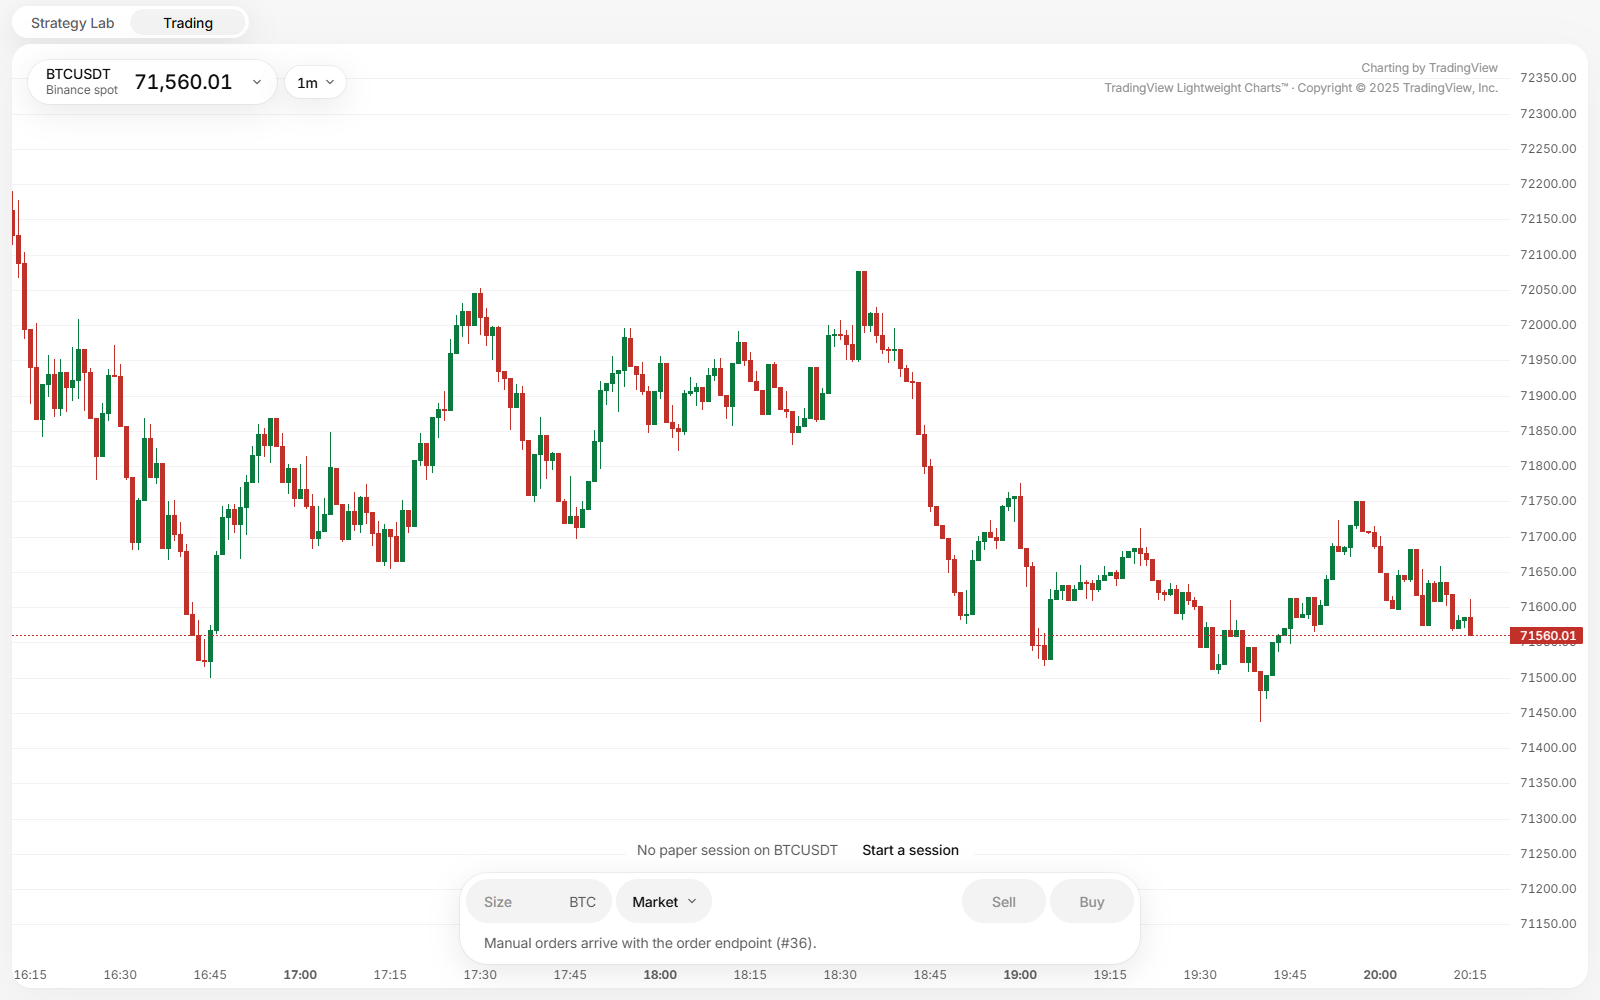
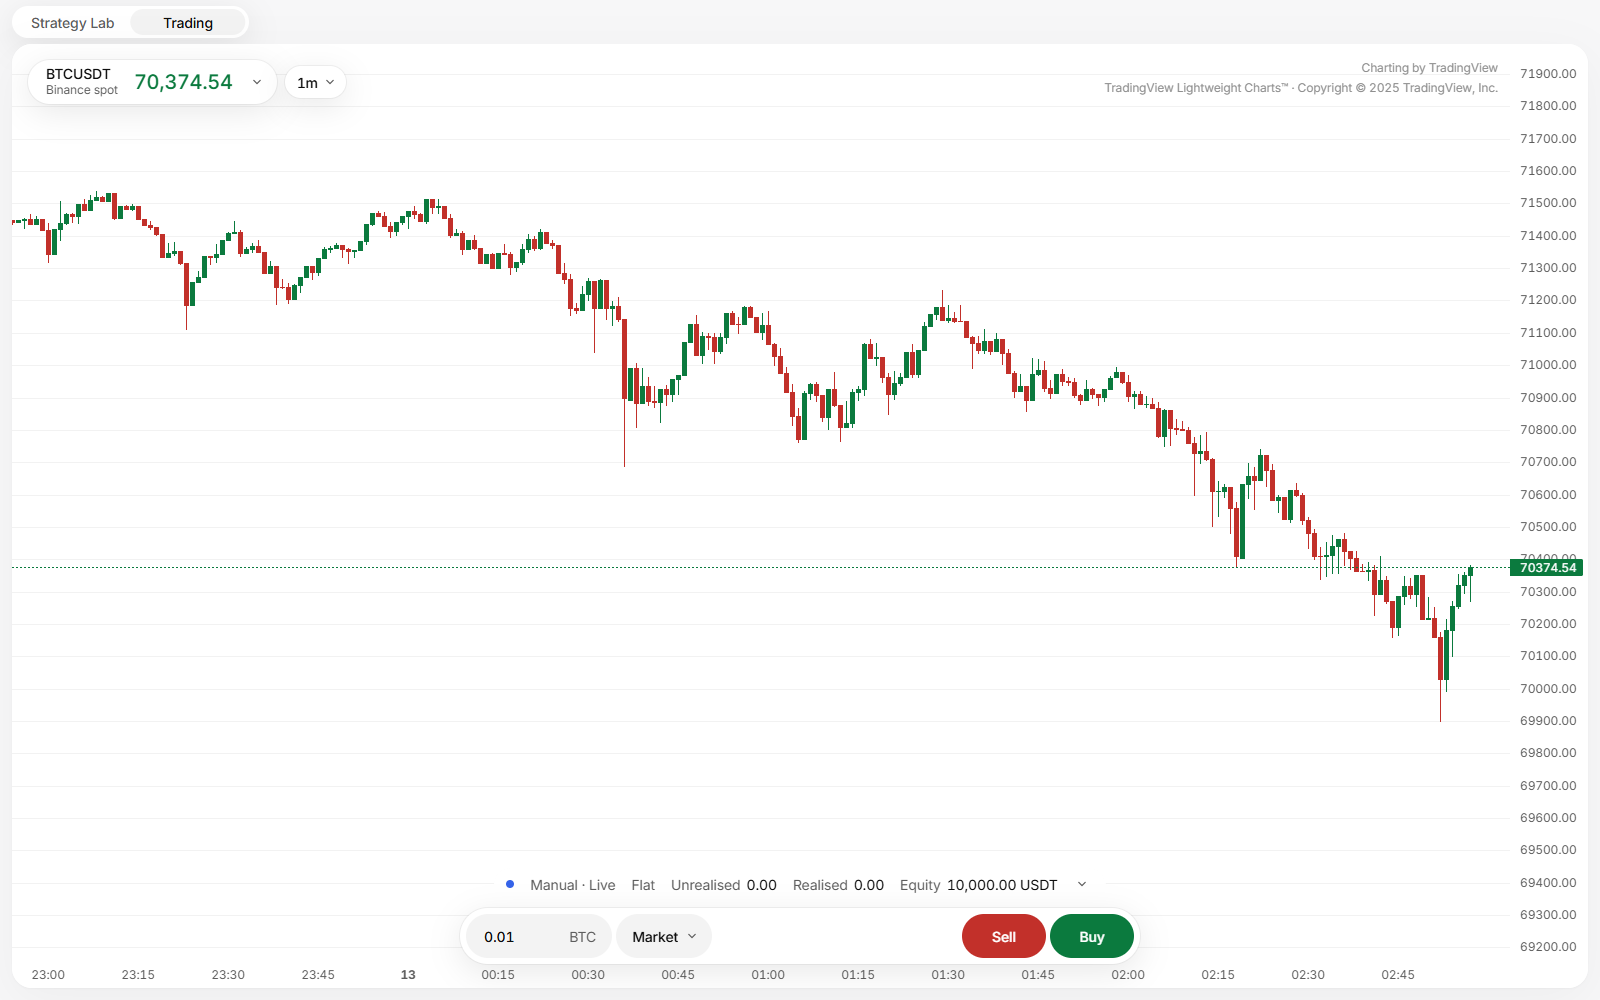
Retake the README's Trading screenshot with the order panel enabled
The old image showed the order ticket from before #126, disabled with
"Manual orders arrive with the order endpoint (#36)." The new one is the
real app on live Binance data: the one-minute BTCUSDT spot chart with a
few hours of history, a running Manual paper session, and the order panel
with a size typed and Sell and Buy enabled. Same 1600x1000 framing as
lab-result.png. The alt text now describes it.

diff --git a/README.md b/README.md
@@ -4,7 +4,7 @@ Trading Desk is the workspace I use for my own trading: a desktop app that backt
 
 ![Strategy Lab showing the result of an SMA cross backtest on BTCUSDT from January 2023 to October 2025: the return, CAGR, Sharpe and drawdown, the equity curve against buy and hold, and the metrics table](assets/lab-result.png)
 
-![Trading showing the live one-minute BTCUSDT chart on Binance spot, with the last few hours of history and the paper order panel](assets/trading.png)
+![Trading showing the live one-minute BTCUSDT chart on Binance spot with the last few hours of history, a running Manual paper session, and the paper order panel with a 0.01 BTC market order ready to send](assets/trading.png)
 
 Choosing a strategy in Strategy Lab and running it, through to the result. The wait while the run loads the data is shown at double speed.
 
